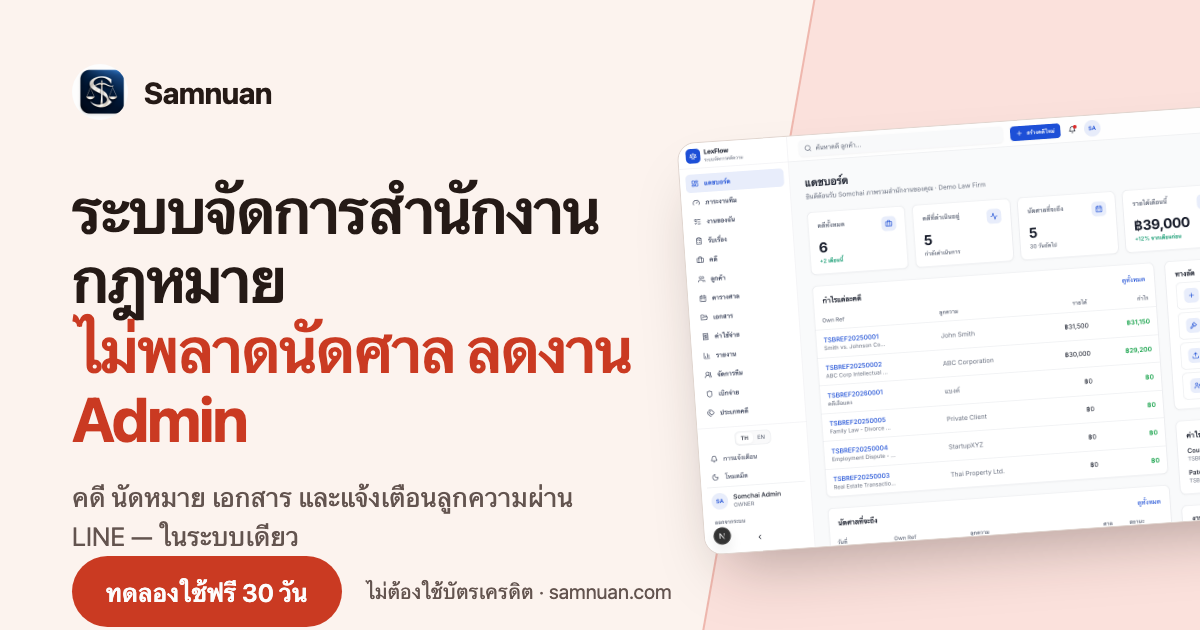
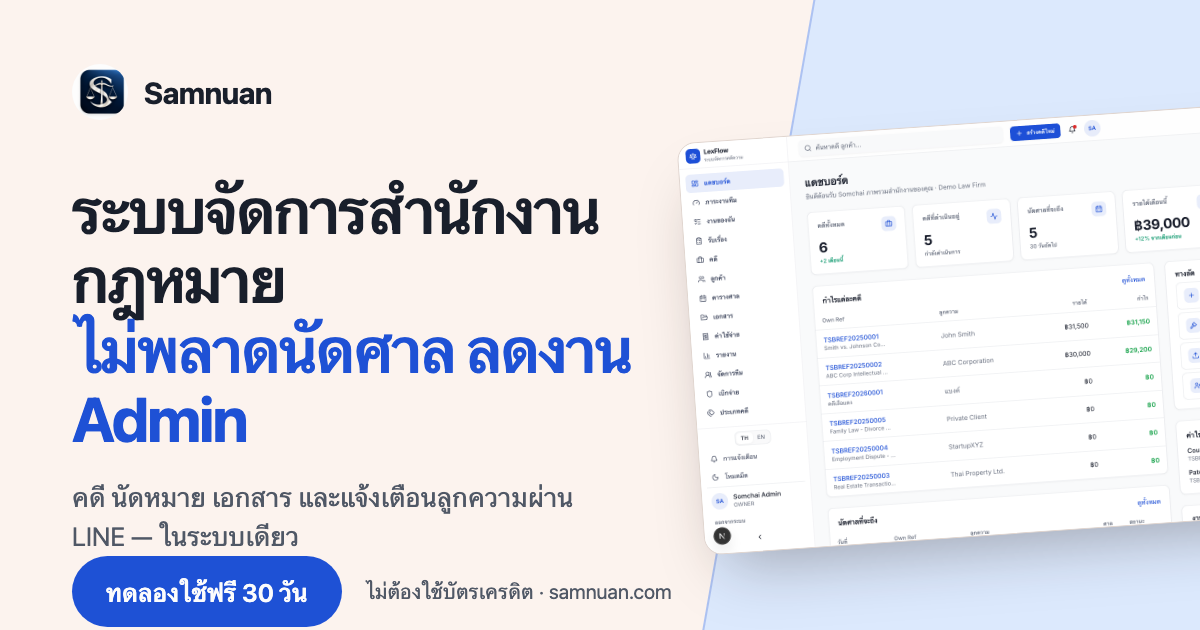
feat(landing): rebrand accent to app blue rgb(29,79,215)
- Accent oklch(49% .21 264), hover darker, soft powder blue; ink and
  dark band shift to navy hues — landing now matches the app's brand
- Contrast improves: white/accent 6.49, accent/paper 6.09 (AA+)
- OG image re-rendered in the blue palette

diff --git a/apps/web/src/components/landing/landing-tokens.css b/apps/web/src/components/landing/landing-tokens.css
@@ -3,8 +3,8 @@
  * source-url: https://era-residence.com · observed-fonts: ambroise-francois-std (classical serif display)
  *   + Maison Neue Extended (tracked micro-labels) → translated: Trirong (Thai didone) + Inter/Noto Sans Thai
  * DNA adopted: alternating full-bleed color acts (cream / dark plum / tinted), oversized classical
- *   display, masked line reveals + parallax (GSAP). Accent hue stays Coral 32 — theme kept, dress changed.
- * contrast: AA pass — white/accent 4.94 · accent/paper 4.64 · cream/band-dark 12+
+ *   display, masked line reveals + parallax (GSAP). Accent = app brand blue rgb(29,79,215) → oklch(49% .21 264).
+ * contrast: AA pass — white/accent 6.49 · accent/paper 6.09 · cream/band-dark 14.6
  *
  * Scoped under .lf-landing only — the app's shared shadcn tokens in globals.css
  * (dashboard, portal, auth) are untouched.
@@ -14,25 +14,26 @@
   --color-paper: oklch(97% 0.012 55);
   --color-paper-2: oklch(94.3% 0.015 50);
   --color-paper-3: oklch(100% 0 0);
-  --color-ink: oklch(23% 0.02 40);
-  --color-ink-2: oklch(46% 0.022 40);
+  --color-ink: oklch(24% 0.025 262);
+  --color-ink-2: oklch(46% 0.025 262);
   --color-rule: oklch(88% 0.014 50);
   --color-rule-2: oklch(80% 0.02 45);
 
-  --color-accent: oklch(56% 0.185 32);
-  --color-accent-2: oklch(50% 0.17 32);
-  --color-accent-soft: oklch(93% 0.03 32);
+  /* Brand blue — the app's rgb(29, 79, 215), matched in OKLCH */
+  --color-accent: oklch(49% 0.21 264);
+  --color-accent-2: oklch(43% 0.19 264);
+  --color-accent-soft: oklch(93% 0.03 260);
   --color-accent-line: color-mix(in oklab, var(--color-accent) 22%, transparent);
   --color-accent-ink: oklch(99% 0 0);
-  --color-focus: oklch(56% 0.185 32);
+  --color-focus: oklch(49% 0.21 264);
   --color-success: oklch(56% 0.13 152);
 
-  /* Dark act — era-residence-style full-bleed band, kept in the coral hue family */
-  --color-band-dark: oklch(24% 0.045 32);
-  --color-band-dark-2: oklch(29% 0.05 32);
+  /* Dark act — era-residence-style full-bleed band, now deep navy to match the brand */
+  --color-band-dark: oklch(24% 0.045 264);
+  --color-band-dark-2: oklch(29% 0.05 264);
   --color-band-ink: oklch(96% 0.01 55);
-  --color-band-ink-2: oklch(78% 0.02 45);
-  --color-band-rule: oklch(38% 0.04 32);
+  --color-band-ink-2: oklch(78% 0.02 260);
+  --color-band-rule: oklch(38% 0.04 264);
 
   --font-display: 'Trirong', 'Inter', ui-serif, Georgia, serif;
   --font-body: 'Inter', 'Noto Sans Thai', ui-sans-serif, system-ui, sans-serif;
@@ -228,12 +229,12 @@
 }
 
 .lf-section--dark .lf-kicker {
-  color: oklch(72% 0.12 32);
+  color: oklch(74% 0.1 264);
 }
 
 .lf-section--dark .lf-tour-frame {
   border-color: var(--color-band-rule);
-  box-shadow: 0 32px 64px -24px oklch(10% 0.03 32 / 0.6);
+  box-shadow: 0 32px 64px -24px oklch(10% 0.03 264 / 0.6);
 }
 
 .lf-section--dark .lf-tour-caption {
